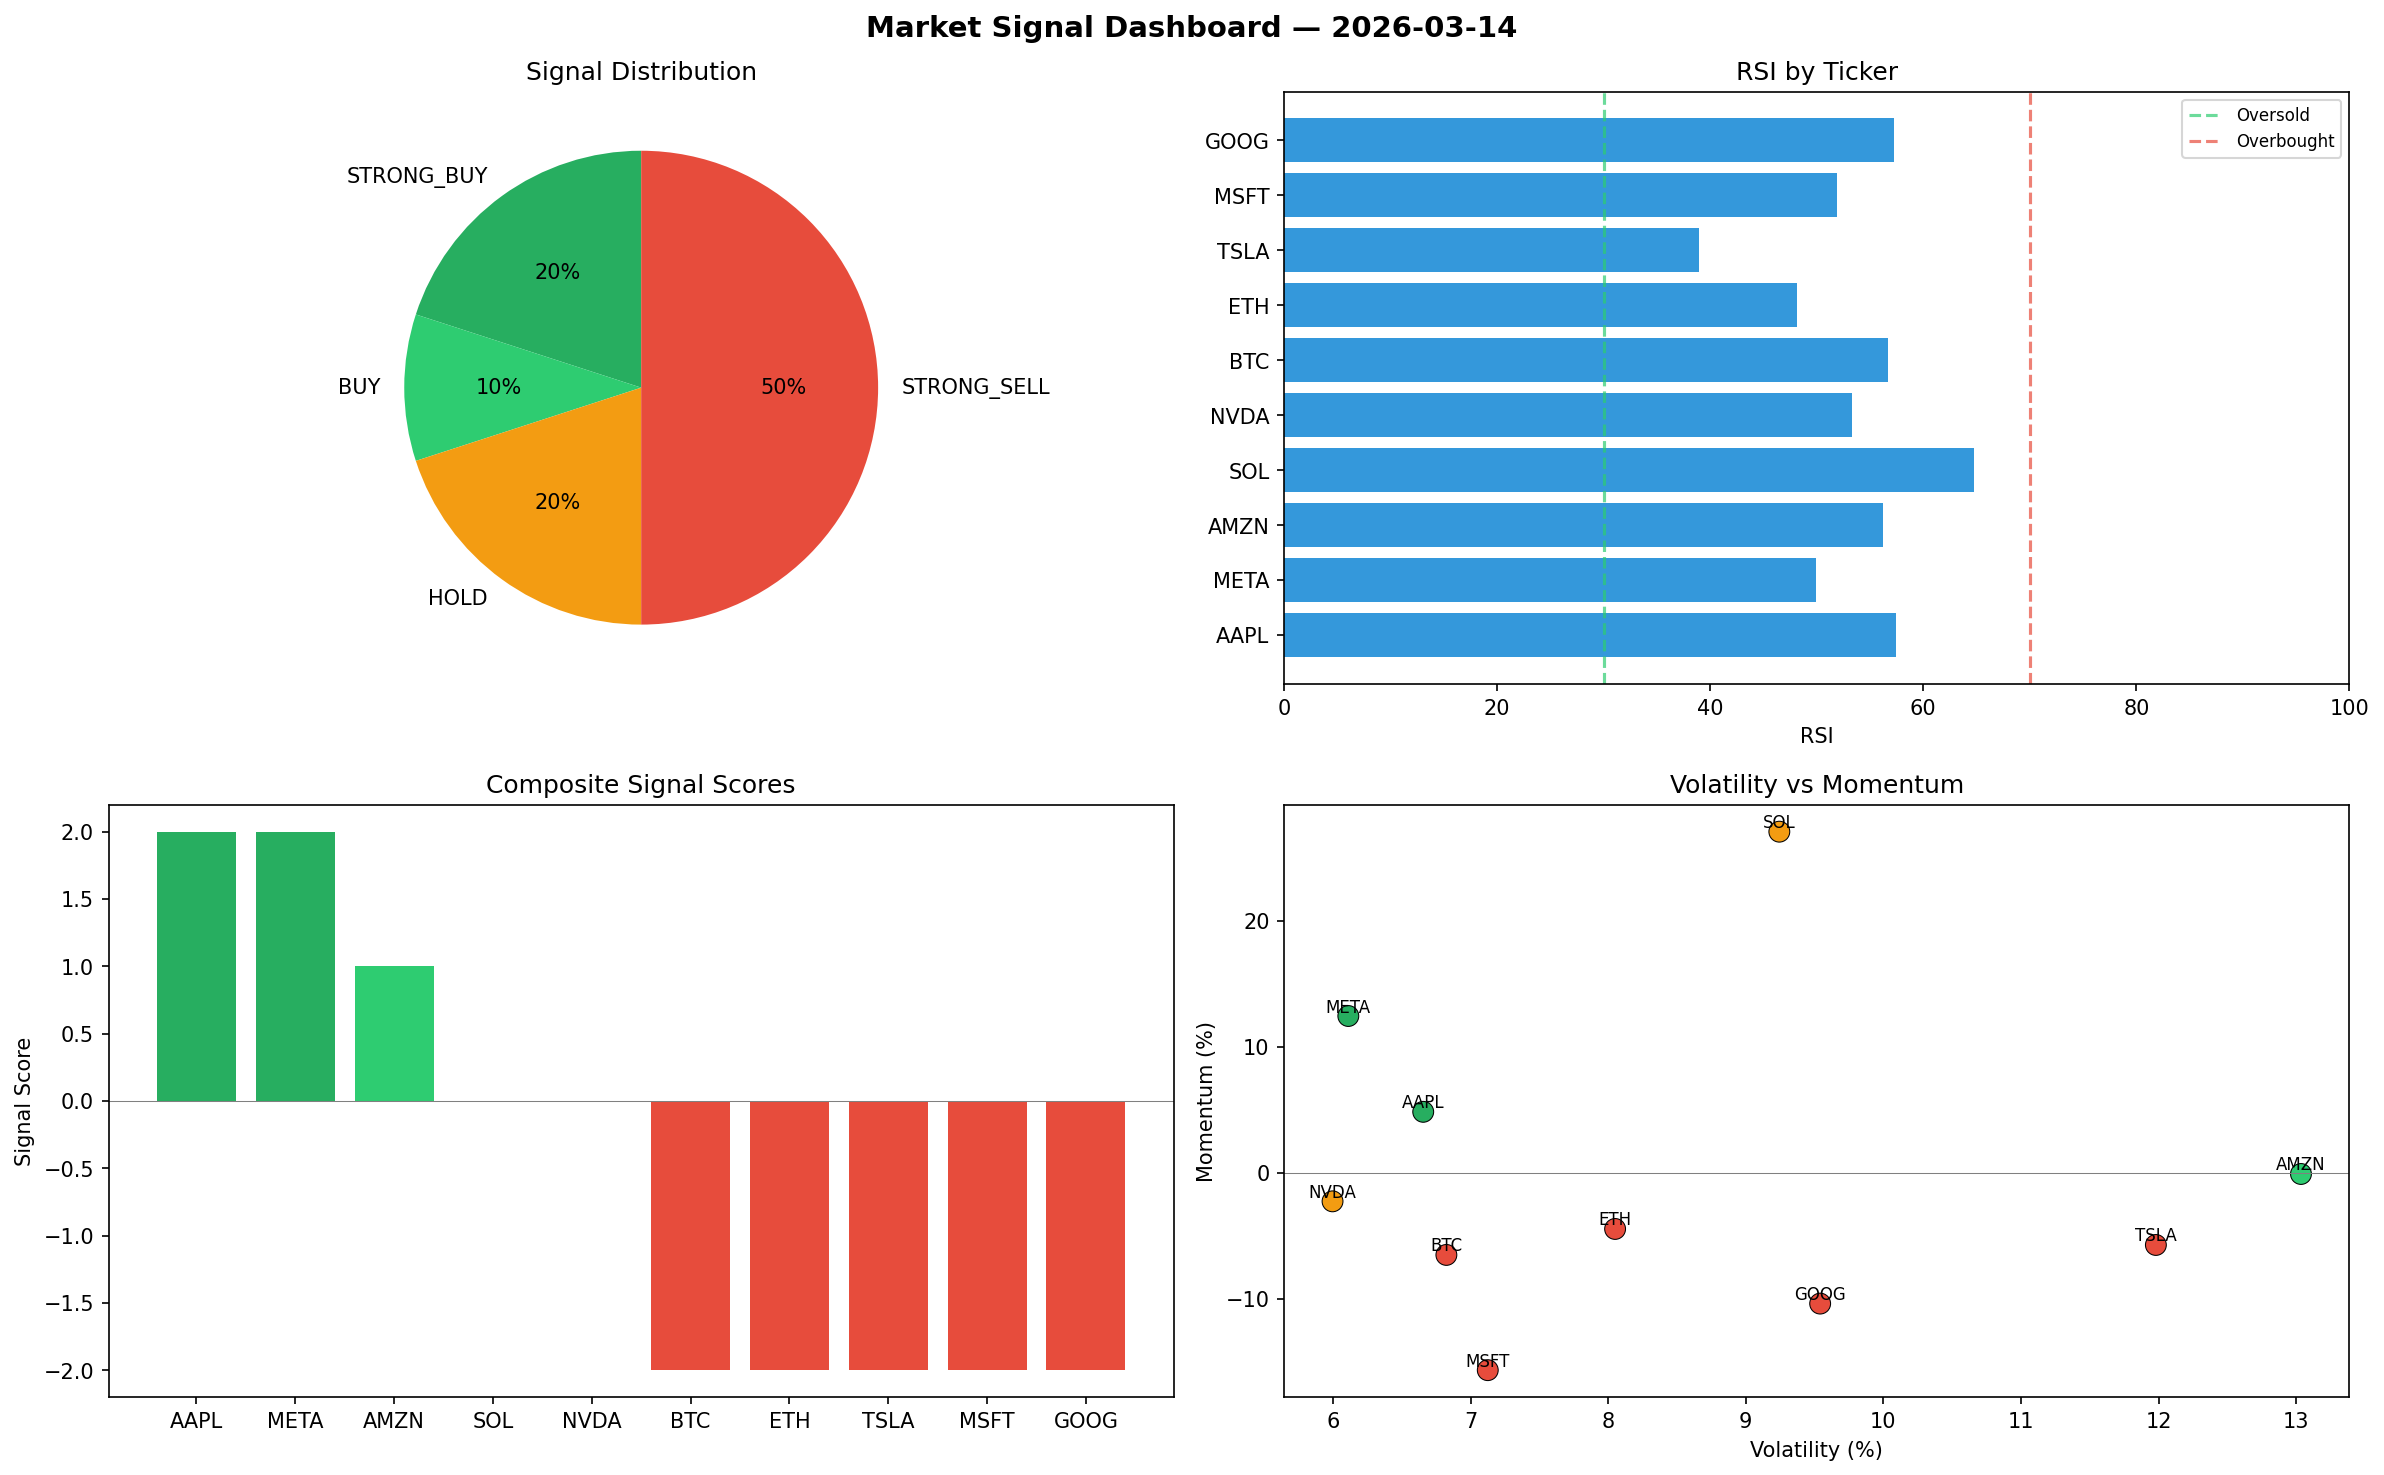
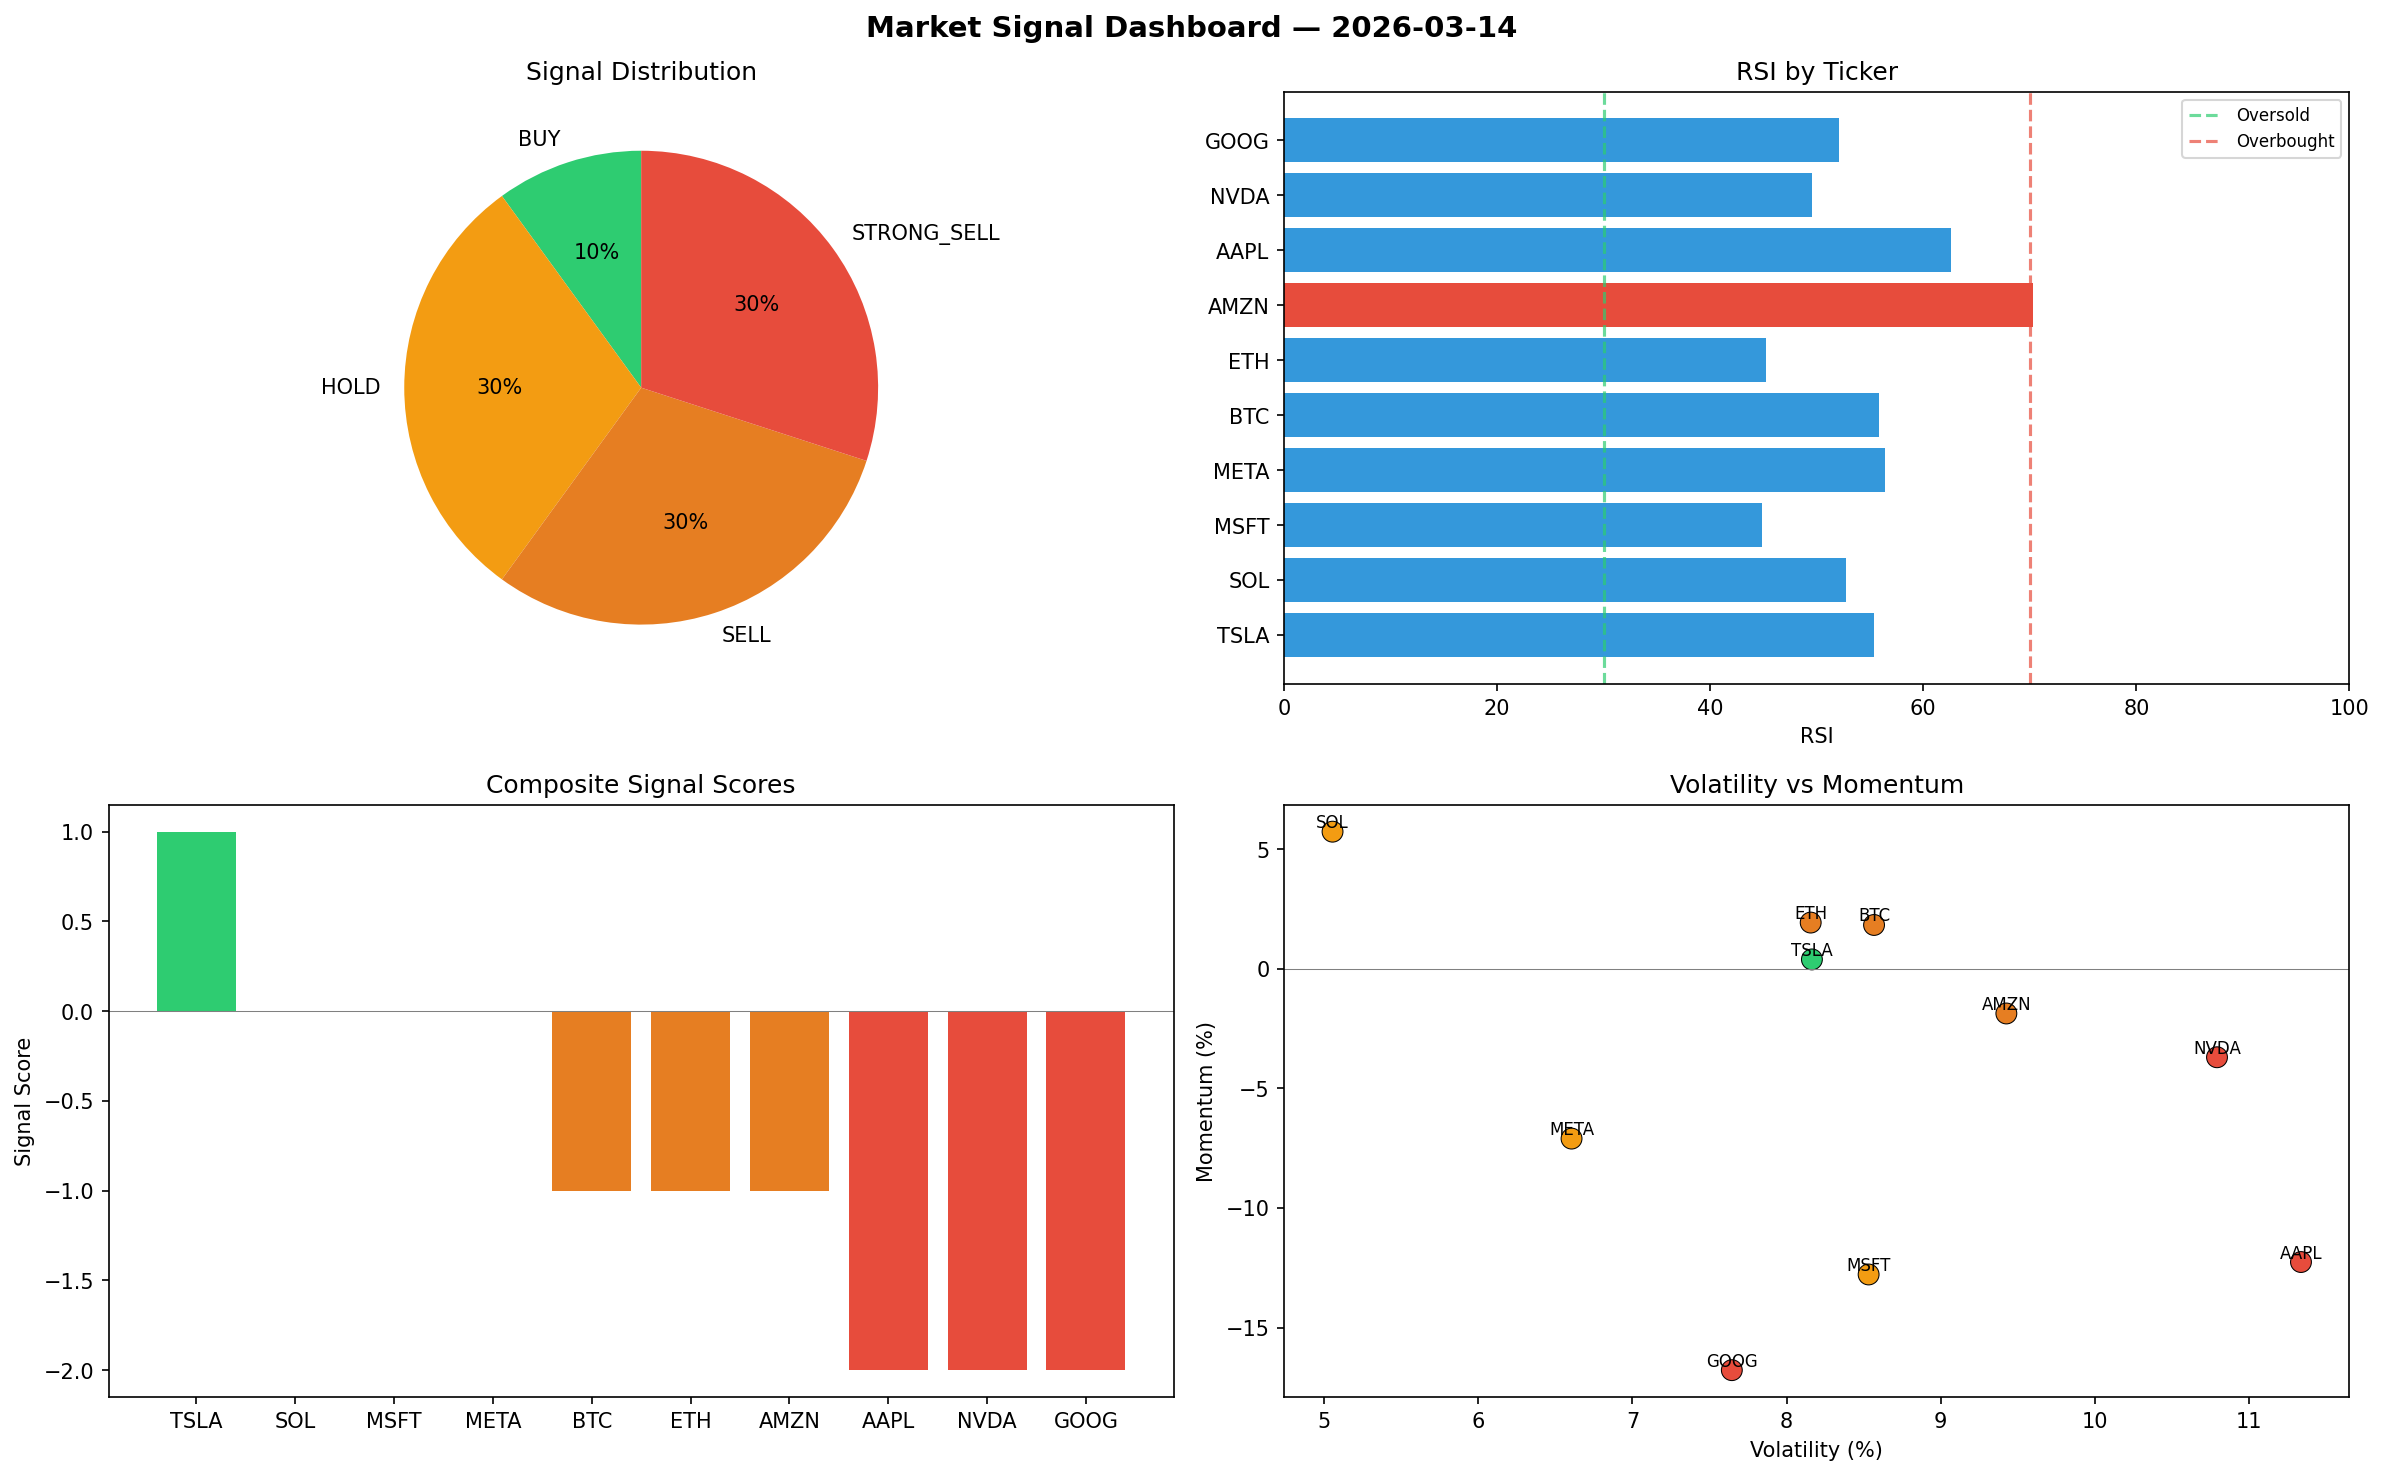
automated-bots: market signals 2026-03-14T20:49

diff --git a/logs/2026-03-14.md b/logs/2026-03-14.md
@@ -1,6 +1,6 @@
 # Market Signal Report — 2026-03-14
 
-**Run ID:** `8ac7bdf886` | **Buy:** 3 | **Sell:** 5 | **Hold:** 2
+**Run ID:** `ad37734aa4` | **Buy:** 1 | **Sell:** 6 | **Hold:** 3
 
 ![Dashboard](2026-03-14_dashboard.png)
 
@@ -8,28 +8,28 @@
 
 | Ticker | Price | Signal | Score | RSI | Momentum | Confidence |
 |--------|-------|--------|-------|-----|----------|------------|
-| AAPL | $3162.85 | **STRONG_BUY** | 2 | 57.4 | 0.0484 | 0.5 |
-| META | $3072.56 | **STRONG_BUY** | 2 | 49.94 | 0.1244 | 0.5 |
-| AMZN | $3299.54 | **BUY** | 1 | 56.21 | -0.0009 | 0.25 |
-| SOL | $603.78 | **HOLD** | 0 | 64.76 | 0.2706 | 0.0 |
-| NVDA | $903.01 | **HOLD** | 0 | 53.29 | -0.0226 | 0.0 |
-| BTC | $2035.74 | **STRONG_SELL** | -2 | 56.65 | -0.0651 | 0.5 |
-| ETH | $718.77 | **STRONG_SELL** | -2 | 48.11 | -0.0445 | 0.5 |
-| TSLA | $1581.28 | **STRONG_SELL** | -2 | 38.94 | -0.0572 | 0.5 |
-| MSFT | $2457.09 | **STRONG_SELL** | -2 | 51.94 | -0.1565 | 0.5 |
-| GOOG | $2747.56 | **STRONG_SELL** | -2 | 57.24 | -0.1037 | 0.5 |
+| TSLA | $3934.98 | **BUY** | 1 | 55.34 | 0.0039 | 0.25 |
+| SOL | $2128.27 | **HOLD** | 0 | 52.75 | 0.0573 | 0.0 |
+| MSFT | $1939.37 | **HOLD** | 0 | 44.89 | -0.1278 | 0.0 |
+| META | $1412.89 | **HOLD** | 0 | 56.38 | -0.071 | 0.0 |
+| BTC | $1649.31 | **SELL** | -1 | 55.83 | 0.0183 | 0.25 |
+| ETH | $2362.04 | **SELL** | -1 | 45.22 | 0.0193 | 0.25 |
+| AMZN | $4984.96 | **SELL** | -1 | 70.31 | -0.0187 | 0.25 |
+| AAPL | $3997.11 | **STRONG_SELL** | -2 | 62.62 | -0.1226 | 0.5 |
+| NVDA | $2856.68 | **STRONG_SELL** | -2 | 49.57 | -0.037 | 0.5 |
+| GOOG | $980.36 | **STRONG_SELL** | -2 | 52.07 | -0.1678 | 0.5 |
 
 ## Delta vs Yesterday
 
 | Ticker | Today | Yesterday | Price Change | Signal Changed |
 |--------|-------|-----------|-------------|----------------|
-| AAPL | STRONG_BUY | STRONG_BUY | 📉 -9.74% | — |
-| META | STRONG_BUY | BUY | 📉 -12.91% | ⚠ YES |
-| AMZN | BUY | STRONG_BUY | 📈 245.82% | ⚠ YES |
-| SOL | HOLD | STRONG_SELL | 📉 -71.85% | ⚠ YES |
-| NVDA | HOLD | SELL | 📈 83.45% | ⚠ YES |
-| BTC | STRONG_SELL | HOLD | 📉 -4.91% | ⚠ YES |
-| ETH | STRONG_SELL | STRONG_SELL | 📉 -69.52% | — |
-| TSLA | STRONG_SELL | HOLD | 📉 -69.72% | ⚠ YES |
-| MSFT | STRONG_SELL | BUY | 📈 1589.77% | ⚠ YES |
-| GOOG | STRONG_SELL | STRONG_SELL | 📈 159.53% | — |
+| TSLA | BUY | HOLD | 📉 -24.66% | ⚠ YES |
+| SOL | HOLD | STRONG_SELL | 📉 -0.78% | ⚠ YES |
+| MSFT | HOLD | BUY | 📈 1233.73% | ⚠ YES |
+| META | HOLD | BUY | 📉 -59.95% | ⚠ YES |
+| BTC | SELL | HOLD | 📉 -22.96% | ⚠ YES |
+| ETH | SELL | STRONG_SELL | 📈 0.18% | ⚠ YES |
+| AMZN | SELL | STRONG_BUY | 📈 422.47% | ⚠ YES |
+| AAPL | STRONG_SELL | STRONG_BUY | 📈 14.06% | ⚠ YES |
+| NVDA | STRONG_SELL | SELL | 📈 480.33% | ⚠ YES |
+| GOOG | STRONG_SELL | STRONG_SELL | 📉 -7.4% | — |
